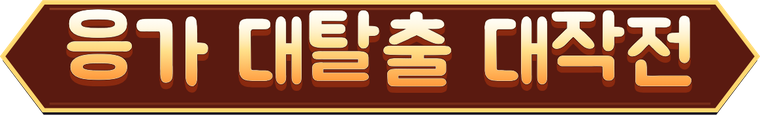
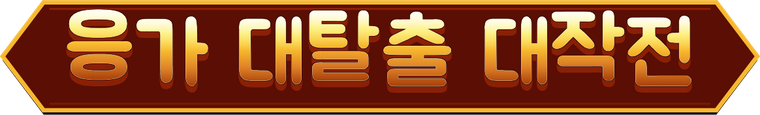
Sky Adventure: 한글 부제 K3 색을 F 로고에 맞춤(크림·노랑·금·호박·적갈 + 적갈 명판·금테) · PWA 버전에 파일 내용 반영(같은 이름 그림 교체도 새 버전) — 라이브 기본 로고 미변경
Claude-Session: https://claude.ai/code/session_011LWBdaMrjA1BLGjF6h5PmT

diff --git a/tools/sky-pwa.py b/tools/sky-pwa.py
@@ -53,7 +53,10 @@ for dp, _, fs in os.walk(D):
 shell = ['./', 'index.html', 'manifest.webmanifest'] + sorted(f for f in files if re.match(r'assets/[^/]+\.(js|css|woff2)$', f)) + \
         sorted(f for f in files if f.startswith('assets/sky/v3-poop/title/') and 'cand/' not in f) + ['assets/sky/v3-poop/manifest.json', 'pwa/icon-192.png']
 core = sorted(f for f in files if f.startswith('assets/') and not f.startswith('assets/sky/v3-poop/album/p/') and 'title/cand/' not in f and not f.endswith('.webmanifest'))
-ver = hashlib.sha1(open(f'{D}/index.html', 'rb').read() + ''.join(core).encode()).hexdigest()[:10]
+_h = hashlib.sha1(open(f'{D}/index.html', 'rb').read())
+for f in sorted(set(core) | {x for x in shell if x not in ('./', 'manifest.webmanifest')}):   # 파일 내용까지 → 같은 이름 그림만 바뀌어도 새 버전
+    if os.path.isfile(f'{D}/{f}'): _h.update(f.encode()); _h.update(open(f'{D}/{f}', 'rb').read())
+ver = _h.hexdigest()[:10]
 json.dump({'version': ver, 'core': core}, open(f'{D}/pwa/core.json', 'w'))
 
 sw = f"""/* GONA's Sky Adventure Service Worker — 자동 생성 (tools/sky-pwa.py) · 버전 {ver} */
